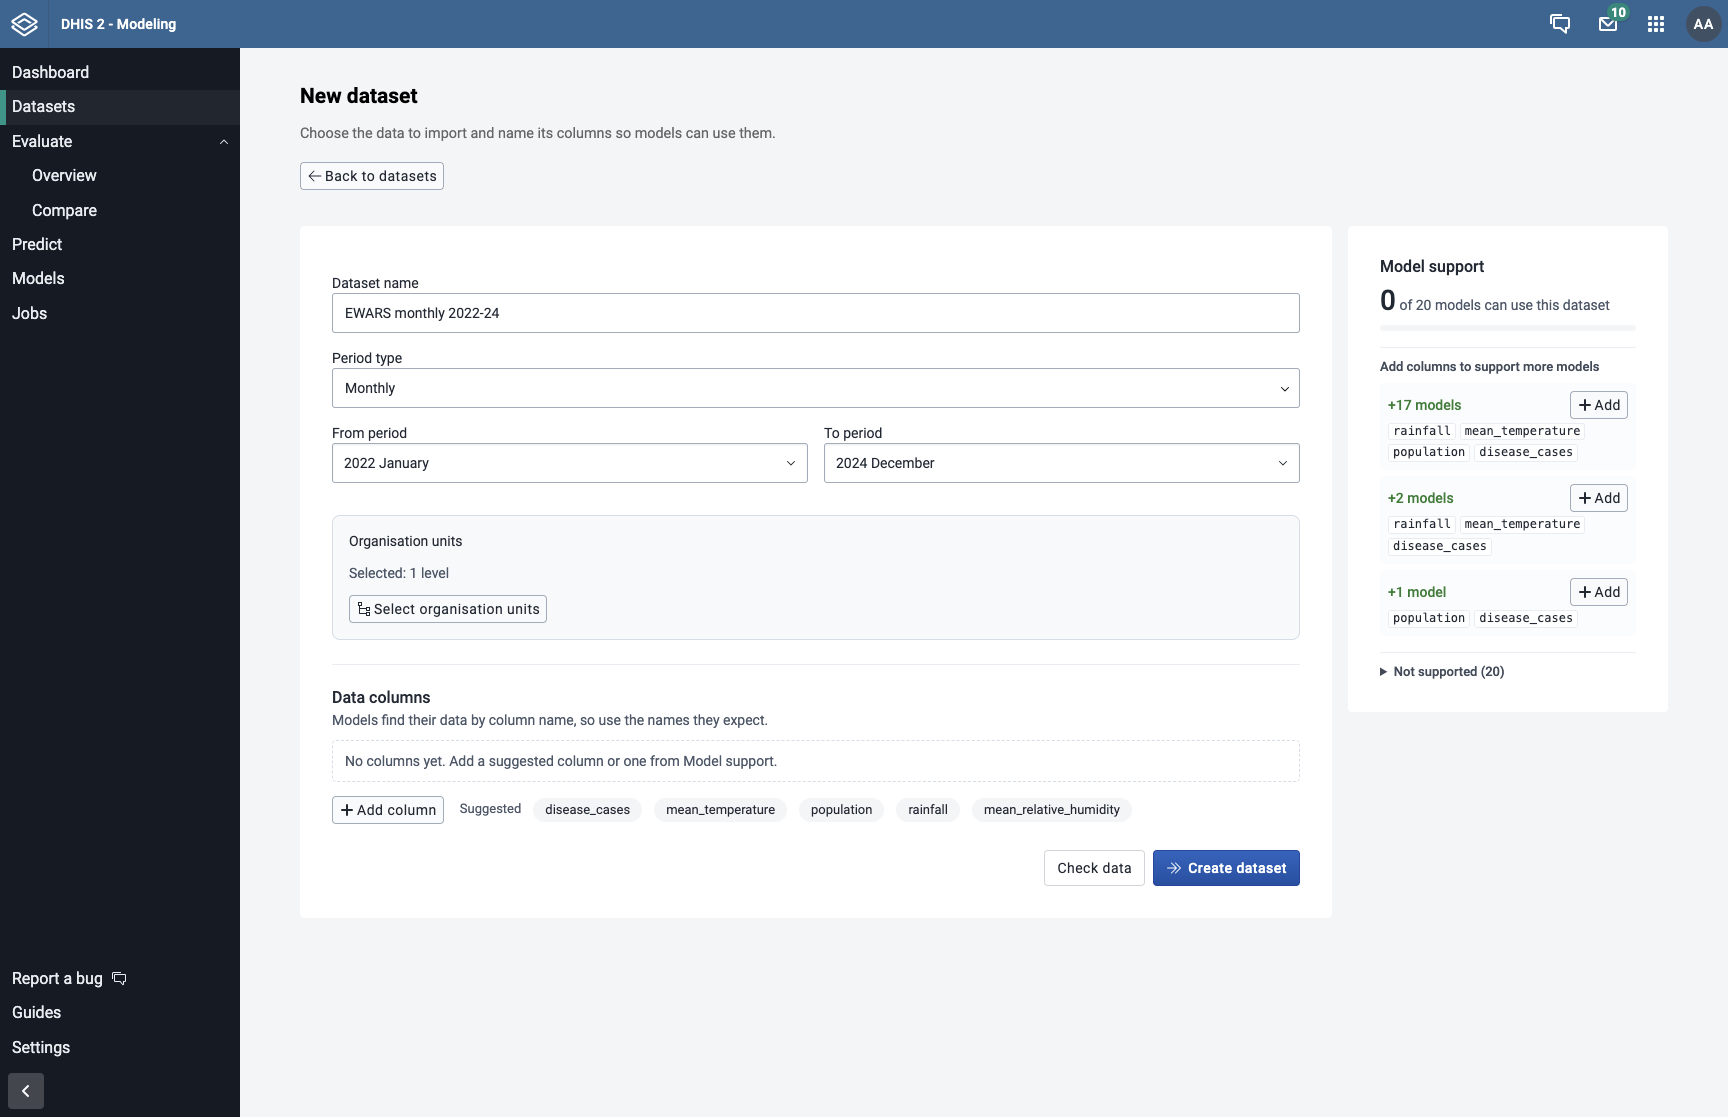
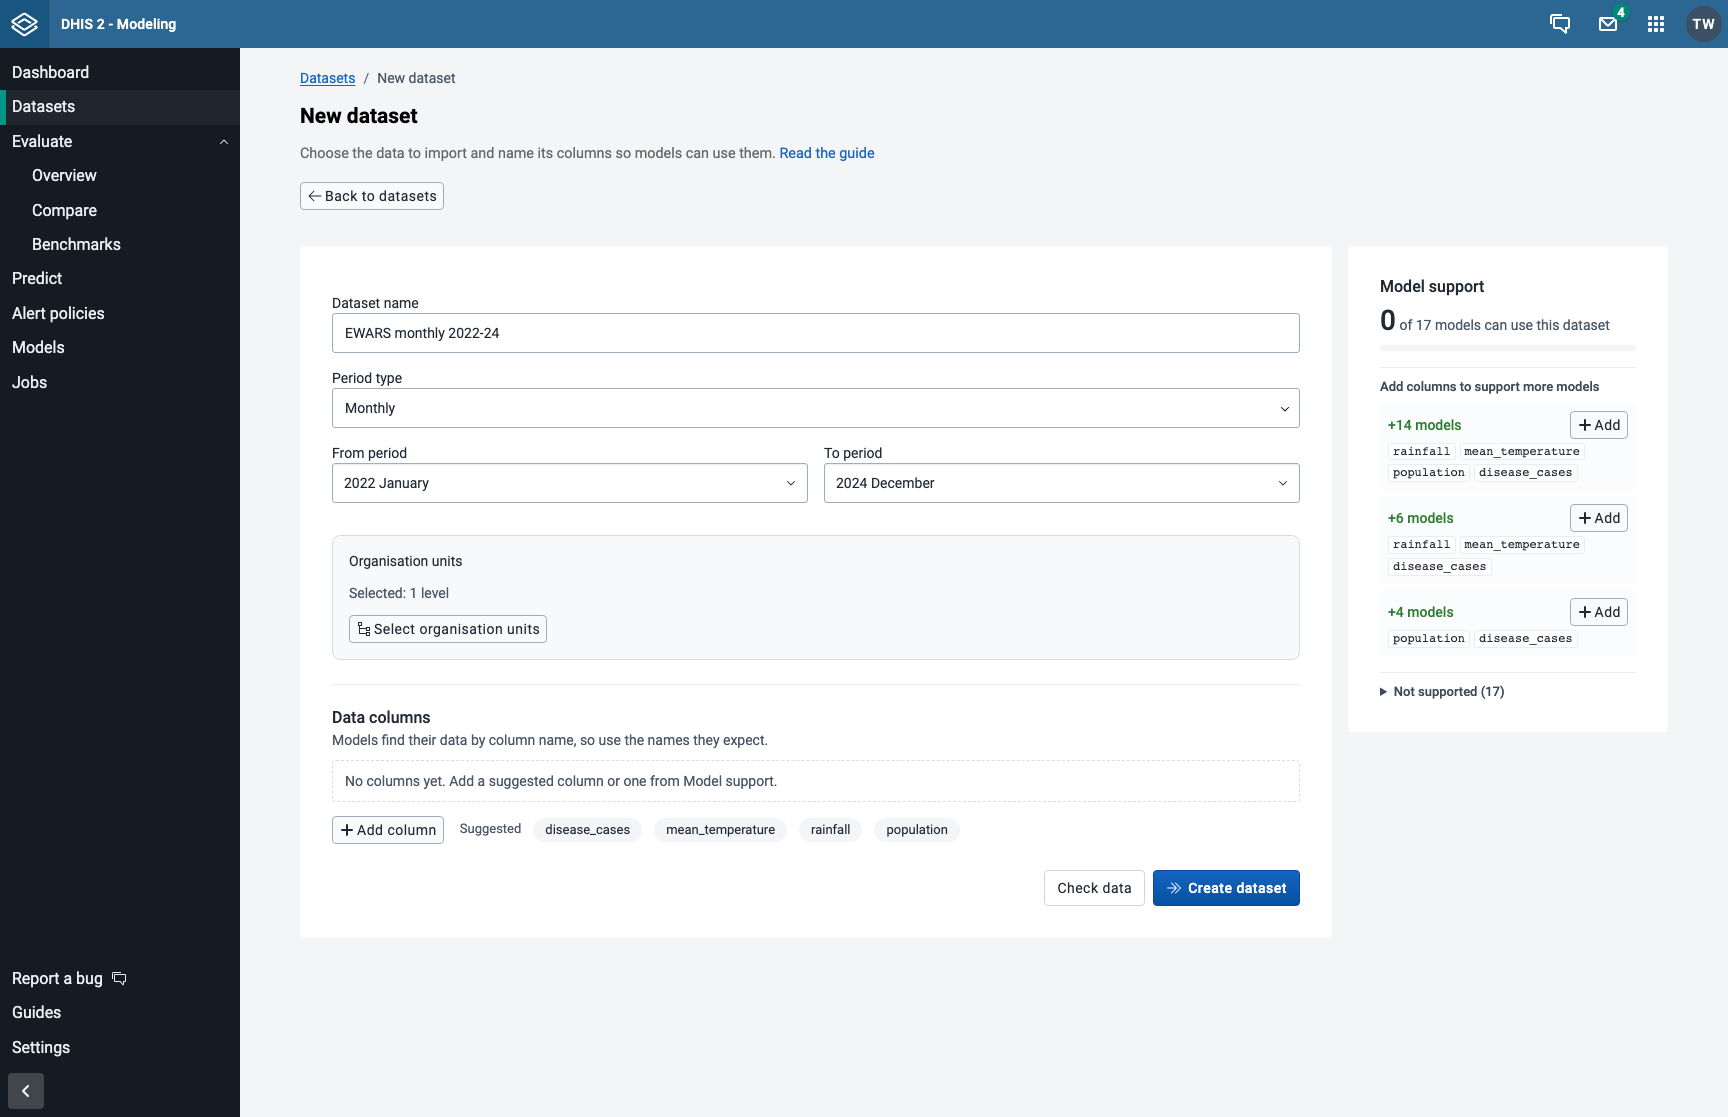
docs: cover dataset target column and completeness in user guides [CLIM-1308]

diff --git a/apps/modeling-app/src/components/NewDatasetForm/NewDatasetForm.tsx b/apps/modeling-app/src/components/NewDatasetForm/NewDatasetForm.tsx
@@ -133,7 +133,7 @@ export const NewDatasetForm = () => {
                                         previousDataItems={previousDataItems}
                                     />
 
-                                    {isTargetColumnAvailable && (
+                                    {isTargetColumnAvailable && columnNames.length > 0 && (
                                         <SingleSelectField
                                             className={styles.targetColumn}
                                             label={i18n.t('Target column')}

diff --git a/apps/modeling-app/docs/user-guides/creating-a-dataset/index.md b/apps/modeling-app/docs/user-guides/creating-a-dataset/index.md
@@ -15,7 +15,7 @@ Models find their data by **column name**, so a dataset can only be used by mode
 
 ### Step 1: Navigate to the Datasets Page
 
-Click **Datasets** in the sidebar. The table lists your saved datasets with their period range, number of locations and data columns (covariates).
+Click **Datasets** in the sidebar. The table lists your saved datasets with their period range, number of locations and data columns (covariates). Click a dataset's name to open it.
 
 By default, the filter above the table is set to **Created manually**, so only datasets created on this page are shown. Evaluations and predictions that import data from DHIS2 also save a dataset. To see those, choose **Created by evaluations or predictions**, or clear the filter to show all datasets.
 
@@ -46,6 +46,8 @@ Each data column pairs a **Column name** with a **DHIS2 data item** (a data elem
 
 Under each column name, a hint shows how many models read a column with that name. If no model reads it, check the spelling or pick a suggested name.
 
+Choose the **Target column**: the column models predict. It defaults to `disease_cases`, and every evaluation of the dataset uses it. To predict a different column, create a new dataset.
+
 ---
 
 ### Step 4: Check Model Support
@@ -62,7 +64,7 @@ Use this panel to make sure the models you want to evaluate can use the dataset 
 
 ### Step 5: Check the Data and Create the Dataset
 
-1. Optionally click **Check data** to preview the import without saving anything. A summary shows which locations have data, and which would be left out because of missing data or missing shapes.
+1. Optionally click **Check data** to preview the import without saving anything. A summary shows which locations would be left out because of missing data or missing shapes, and a chart below the form shows how complete the target column is in each period. Click a point in the chart to list the locations missing a value in that period.
 2. Click **Create dataset** to start the import.
 
 The import runs as a background job, and you can follow it on the **Jobs** page. When it finishes, the new dataset appears on the Datasets page. If some locations were left out, a notice lets you view the details.
@@ -72,6 +74,7 @@ The import runs as a background job, and you can follow it on the **Jobs** page.
 ### Next Steps
 
 After the dataset is created, you can:
-- Click **New evaluation** in the dataset's row to [evaluate a model](/guides/creating-an-evaluation) on it
+- Click the dataset's name to see how complete its target column is and which locations are missing values
+- Open the **⋯** menu in the dataset's row and choose **New evaluation** to [evaluate a model](/guides/creating-an-evaluation) on it
 - Run several evaluations against the same dataset to compare models on identical data
 - [Configure a model](/guides/configuring-a-model) that fits the dataset's columns

diff --git a/apps/modeling-app/docs/user-guides/creating-an-evaluation/index.md b/apps/modeling-app/docs/user-guides/creating-an-evaluation/index.md
@@ -30,9 +30,11 @@ Click the **New evaluation** button to start creating a new evaluation. The page
 
 ### Step 2: Choose a Dataset
 
-The **Use saved dataset** tab is selected by default. You can also go straight here from the **Datasets** page by clicking **New evaluation** in a dataset's row, which pre-selects that dataset.
+The **Use saved dataset** tab is selected by default. You can also go straight here from the **Datasets** page by opening the **⋯** menu in a dataset's row and choosing **New evaluation**, which pre-selects that dataset.
 
 Enter a **Name** for the evaluation, then select a **Dataset**. A filter next to the dataset list works like the one on the Datasets page: by default only datasets created on the Datasets page are listed.
+
+**Target column** shows the column the dataset predicts. It is set when the dataset is created, and the models are scored against it.
 
 If you have no saved datasets yet, the tab offers to create one or to import from DHIS2 instead.
 
